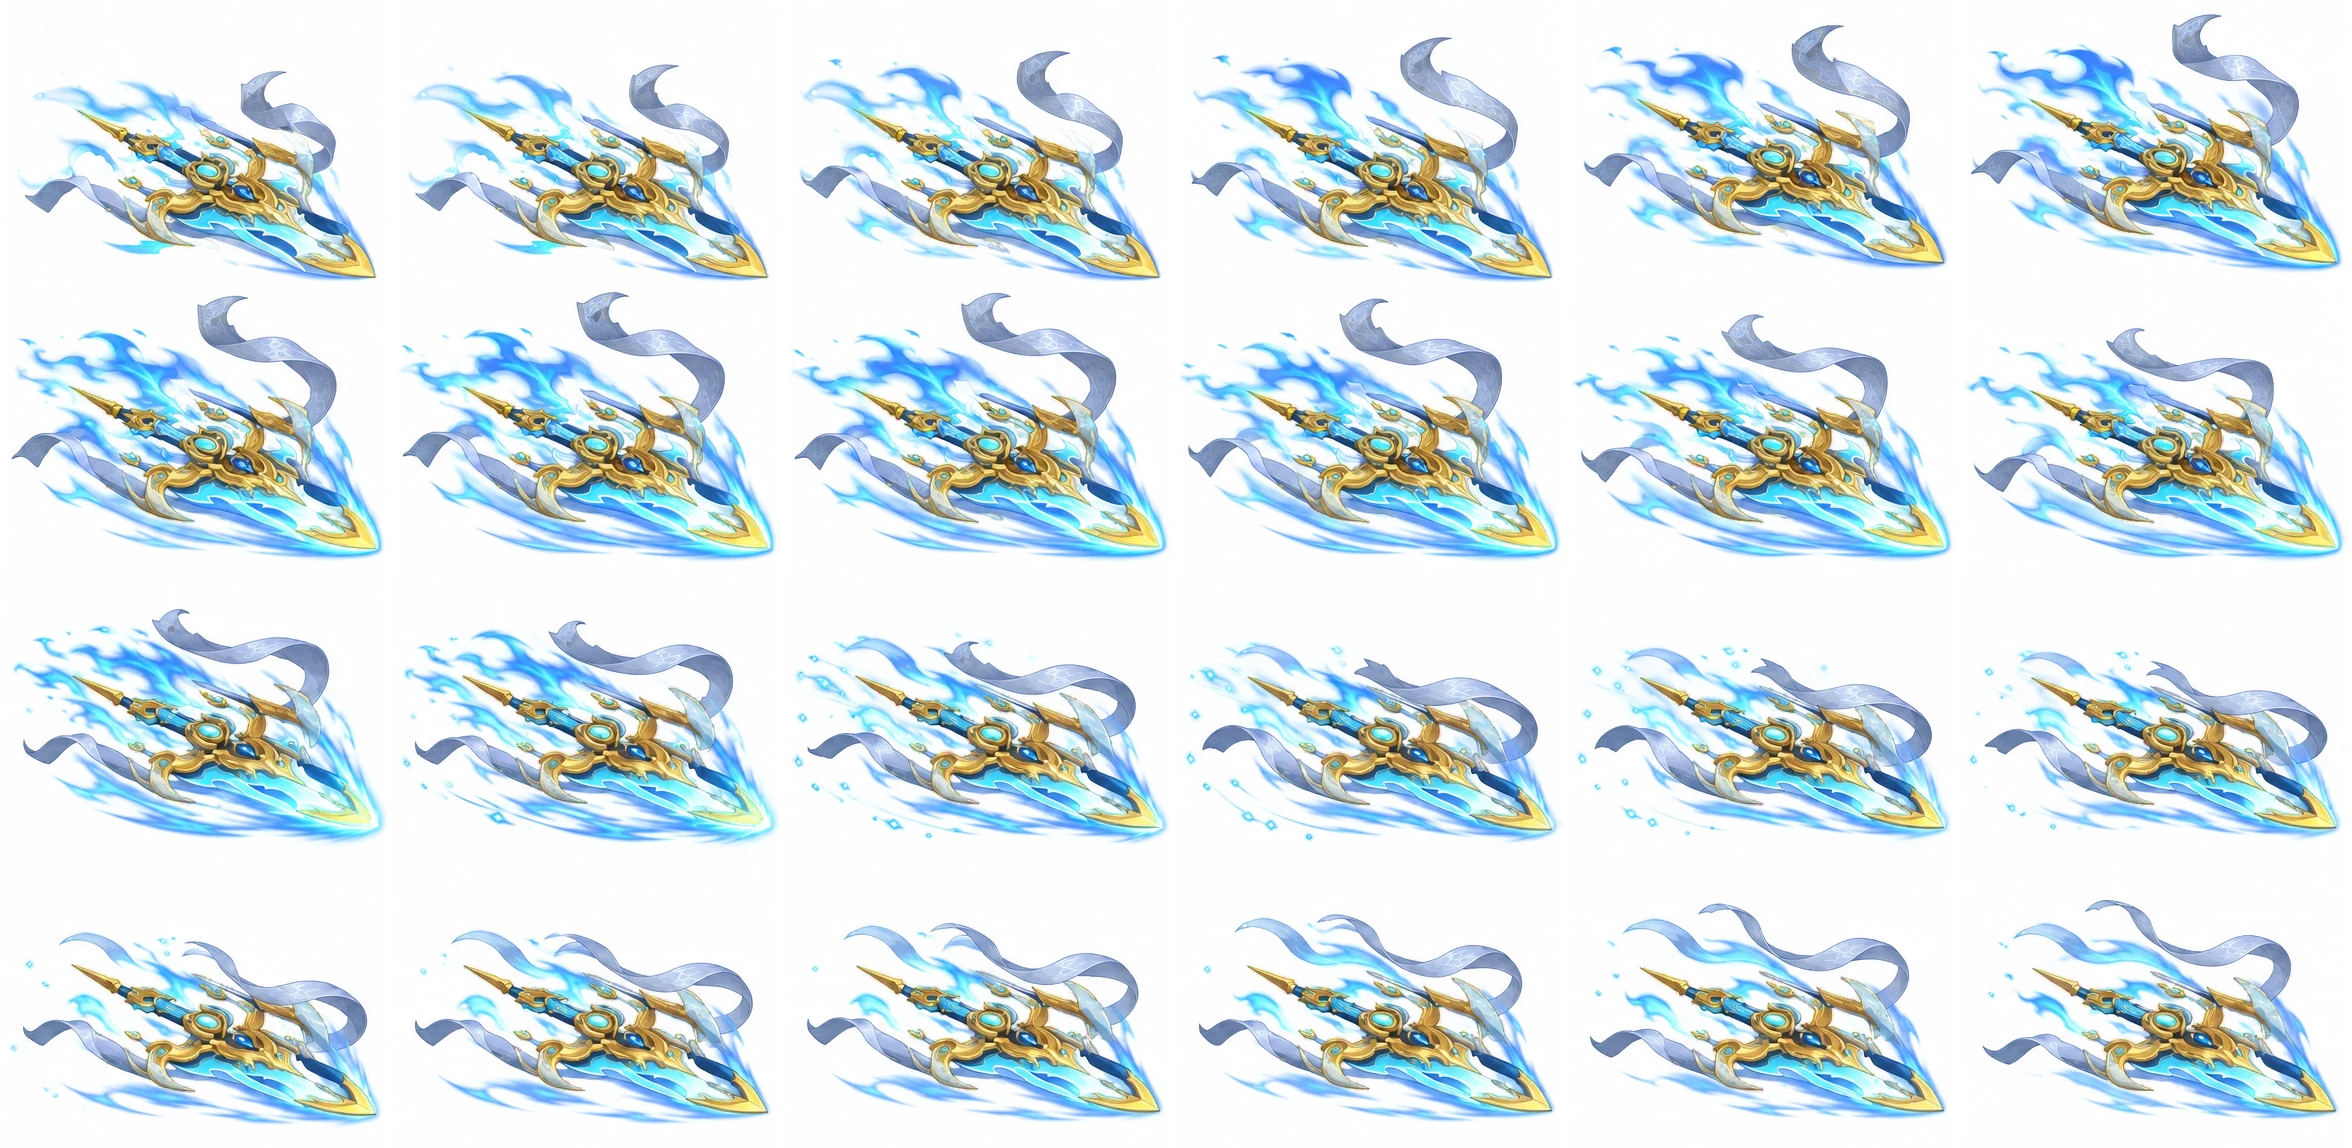
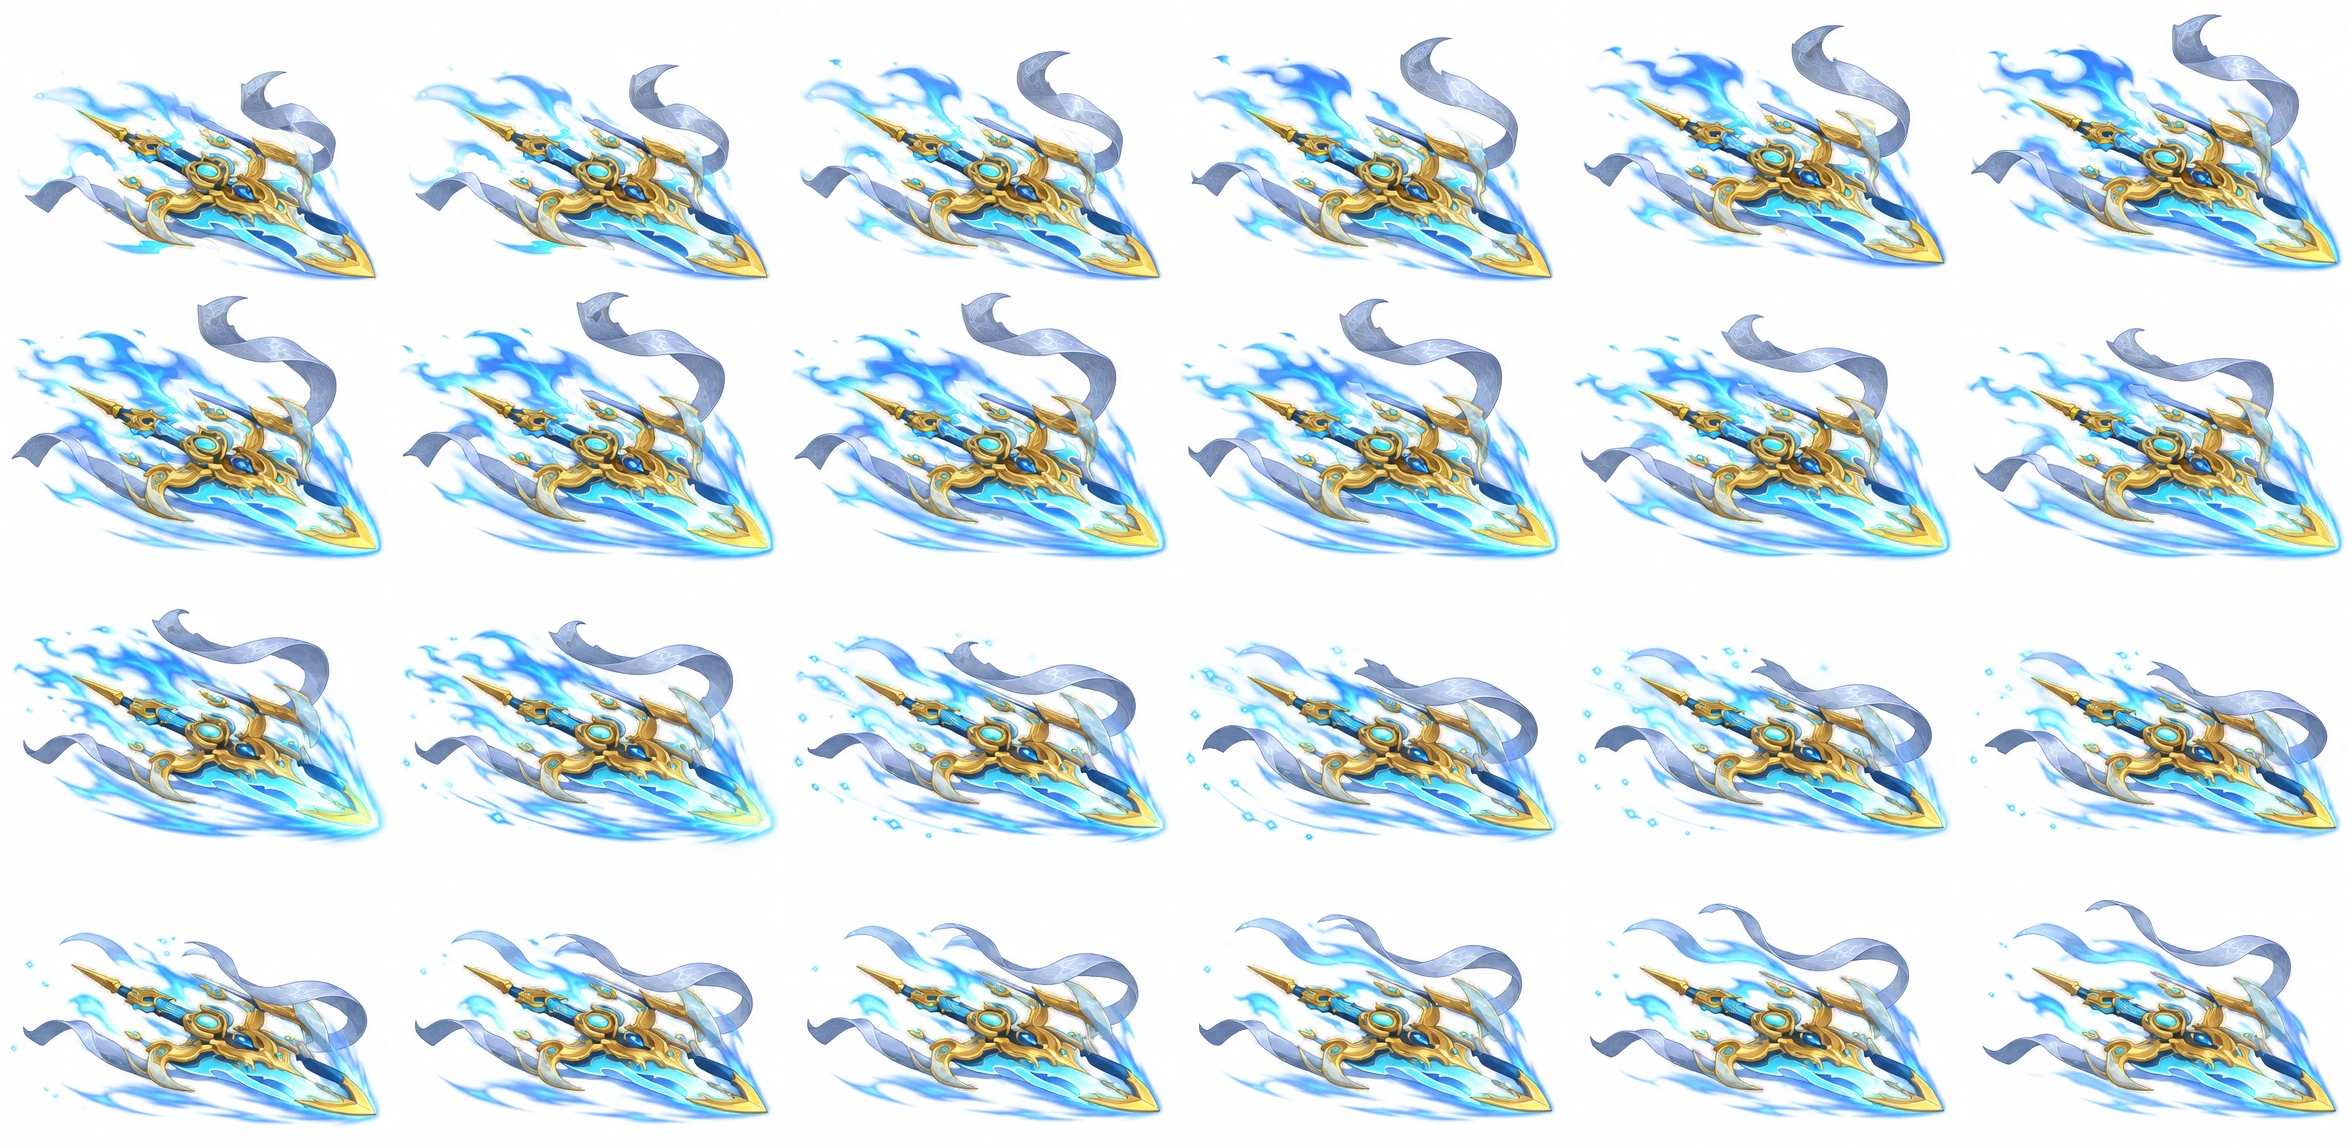
Mount page: sharper 破涅 (lossless, softer metal edges, stage near the art's size)

diff --git a/src/styles.css b/src/styles.css
@@ -1033,7 +1033,8 @@ canvas {
 .global-navigation__medallion--mount { background: radial-gradient(circle at 50% 35%, #cfe9ff, #2f5f9e 55%, #10213f); }
 .global-navigation__medallion--mount img { width: 120%; height: 120%; object-fit: contain; }
 .mount-content { width: min(1020px, 100%); }
-.mount-showcase { display: grid; grid-template-columns: minmax(0, 1.25fr) minmax(0, 1fr); gap: 16px; align-items: center; margin: 10px 0 14px; text-align: left; }
+/* The stage stays close to the art's own size (392 px cells): scaled up much further it turns soft. */
+.mount-showcase { display: grid; grid-template-columns: minmax(0, 440px) minmax(0, 1fr); gap: 16px; align-items: center; margin: 10px 0 14px; text-align: left; }
 .mount-showcase__stage { position: relative; display: grid; place-items: center; aspect-ratio: 392 / 287; border: 1px solid rgba(140, 190, 255, 0.35); border-radius: 14px; background: radial-gradient(ellipse at 50% 60%, #1d3a6a 0%, #0c1730 65%, #070d1e 100%); overflow: hidden; }
 .mount-showcase__sprite { width: 100%; height: 100%; object-fit: contain; }
 .mount-showcase__placeholder { color: #9fb8d8; font-size: 16px; }
